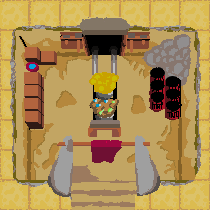
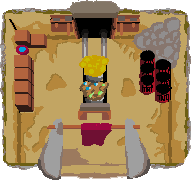
Construccion desde Interfaz

diff --git a/phasertemplate-master/js/interfaz.js b/phasertemplate-master/js/interfaz.js
@@ -10,7 +10,7 @@ export default class Interfaz{
     botonConstruir: 8, flechaAr: 9, aldeanoB: 10, minero: 11, ganadero: 12, cantero:13, explorador: 14, chozaMaestra: 15, mina: 16};
     this.tnames = { oro: 0, comida : 1, materiales: 2, felicidad: 3, proxAtaque: 4, aldeanoBText: 5, mineroText:6, ganaderoText:7,
     canteroText: 8, exploradorText: 9};
-    this.inDesp = 3; this.inIA = 10; this.inAT = 5;
+    this.inDesp = 3; this.inIA = 10; this.inAT = 5; this.inEd = 15;
 
     this.sprites = new Array(config.hudSprites);
     this.edificiosConstruibles = new Array(config.edificiosConstruibles);
@@ -109,13 +109,12 @@ export default class Interfaz{
     this.sp(this.sprites[nE.ganadero], pI.x+xoffSet*i + 115, pI.y-pI.height/2);
     this.sp(this.sprites[nE.cantero], pI.x+xoffSet*i + 185, pI.y-pI.height/2);
     this.sp(this.sprites[nE.explorador], pI.x+xoffSet*i +255, pI.y-pI.height/2);
-    for(let i = this.inIA;i<config.hudSprites;++i) this.sprites[i].setScale(1.3,1.3);
+    for(let i = this.inIA;i<this.inEd;++i) this.sprites[i].setScale(1.3,1.3);
 
     //Edificios construibles
-    /*this.sp(this.sprites[nE.mina], 900,100);
-    this.sprites[nE.mina].setScale(this.sprites[nE.mina].scaleX*config.hudScale ,this.sprites[nE.mina].scaleY*config.hudScale);
-    this.sprites[nE.mina].setVisible(true);*/
-    
+    this.sp(this.sprites[nE.chozaMaestra], pI.x+xoffSet*1.93,480);
+    this.sp(this.sprites[nE.mina], pI.x+xoffSet*1.93, 380);
+    this.sprites[nE.mina].setScale(0.4,0.4);
   }
   sp(sprite,x,y){
     sprite.setPosition(x,y);
@@ -143,11 +142,19 @@ export default class Interfaz{
       }
     })
   }
+  ocultaDesplegable(){
+    for(let a = this.inDesp; a<config.hudSprites; a++){
+      this.sprites[a].setVisible(false);
+      for(let i = this.inAT;i<config.numTexts;++i) this.texts[i].setVisible(false);
+    }
+  }
   clickEnInfo(infoAl){
     infoAl.on('pointerdown', pointer => {
       this.sprites[this.names.infoAldeanos].setVisible(!this.sprites[this.names.infoAldeanos].visible);
-      for(let i = this.inIA;i<config.hudSprites;++i) this.sprites[i].setVisible(!this.sprites[i].visible);
+      for(let i = this.inIA;i<this.inEd;++i) this.sprites[i].setVisible(!this.sprites[i].visible);
       for(let i = this.inAT;i<config.numTexts;++i) this.texts[i].setVisible(!this.texts[i].visible);
+
+      for(let i = this.inEd;i<config.hudSprites;++i) this.sprites[i].setVisible(false);
       this.sprites[this.names.construir].setVisible(false);
       this.sprites[this.names.flechaAb].setVisible(false);
       this.sprites[this.names.flechaAr].setVisible(false);
@@ -155,11 +162,14 @@ export default class Interfaz{
   }
   clickEnConstruccion(construccion){
     construccion.on('pointerdown', pointer =>{
+      this.sprites[this.names.chozaMaestra].setVisible(!this.sprites[this.names.chozaMaestra].visible);
+      this.sprites[this.names.mina].setVisible(!this.sprites[this.names.mina].visible);
+
       this.sprites[this.names.construir].setVisible(!this.sprites[this.names.construir].visible);
       this.sprites[this.names.flechaAb].setVisible(!this.sprites[this.names.flechaAb].visible);
       this.sprites[this.names.flechaAr].setVisible(!this.sprites[this.names.flechaAr].visible);
       this.sprites[this.names.infoAldeanos].setVisible(false);
-      for(let i = this.inIA;i<config.hudSprites;++i) this.sprites[i].setVisible(false);
+      for(let i = this.inIA;i<this.inEd;++i) this.sprites[i].setVisible(false);
       for(let i = this.inAT;i<config.numTexts;++i) this.texts[i].setVisible(false);
     })
   }
@@ -171,6 +181,12 @@ export default class Interfaz{
   clickFlechaAbajo(flechaAb){
     flechaAb.on('pointerdown', pointer =>{
       console.log("ABAJO");
+    })
+  }
+  clickEnChoza(chozaMaestra){
+    chozaMaestra.on('pointerup', pointer=>{
+      this.game.jug.inputConstruir('chozaMaestra');
+      this.ocultaDesplegable();
     })
   }
 
@@ -199,6 +215,7 @@ export default class Interfaz{
     this.clickEnConstruccion(this.sprites[this.names.botonConstruir]);
     this.clickFlechaAbajo(this.sprites[this.names.flechaAb]);
     this.clickFlechaArriba(this.sprites[this.names.flechaAr]);
+    this.clickEnChoza(this.sprites[this.names.chozaMaestra]);
   }
   visibilidad(){
     //Sprites del desplgable comienzan no visibles

diff --git a/phasertemplate-master/js/jugador.js b/phasertemplate-master/js/jugador.js
@@ -45,20 +45,19 @@ export default class Jugador extends Phaser.GameObjects.Sprite {
             this.edificio = null;
         }
 
-        if (Phaser.Input.Keyboard.JustDown(this.build) && !this.isMoving && !this.isBuilding) {
-            this.isBuilding = true;
-            this.edificio = this.construir('recursos', 'oro', this.casillaPuntero, 3, 2);
-            let celdas = this.celdasEdificio(this.edificio);
-            if (this.celdasEdificioOcupadas(celdas))
-                celdas.forEach(elem => elem.sprite.tint = 0xEE4141)
-            else celdas.forEach(elem => elem.sprite.tint = 0x41EE7B);
-        }
-
         if (this.isBuilding) {
             this.posicionaEdificio(this.edificio);
         }
         this.compruebaPosicion();
         super.preUpdate(t, dt);
+    }
+    inputConstruir(spritename){
+        this.isBuilding = true;
+        this.edificio = this.construir(spritename, 'oro', this.casillaPuntero, 3, 2);
+        let celdas = this.celdasEdificio(this.edificio);
+        /*if (this.celdasEdificioOcupadas(celdas))
+            celdas.forEach(elem => elem.sprite.tint = 0xEE4141)
+        else celdas.forEach(elem => elem.sprite.tint = 0x41EE7B);*/
     }
 
     celdasEdificio(edificio) {
@@ -87,8 +86,8 @@ export default class Jugador extends Phaser.GameObjects.Sprite {
 
     posicionaEdificio(edificio) {
         let pos = { x: 0, y: 0 };
-        pos.x = this.casillaPuntero.x + (config.sizeCasilla * edificio.ancho) / 2;
-        pos.y = this.casillaPuntero.y + (config.sizeCasilla * edificio.alto) / 1.25;
+        pos.x = this.casillaPuntero.x;
+        pos.y = this.casillaPuntero.y;
         edificio.setPosition(pos);
     }
 
@@ -132,13 +131,16 @@ export default class Jugador extends Phaser.GameObjects.Sprite {
         if (tipo === 'recursos') {
             //scene,vida,coste,posicion,aldeanosMax,especialidad, key
             edificio = new EdificioRecursos(this.game, 0, 0, pos, ancho, alto, 5, especialidad, 'edificio');
-        } else if (tipo === 'social') {
+        }
+         else if (tipo === 'social') {
             //scene,vida,coste,posicion,felicidad, key
             edificio = new EdificioSocial(this.game, 0, 0, pos, 10, 'edificio');
-        } else if (tipo === 'chozaMaestra') {
+        } 
+        else if (tipo === 'chozaMaestra') {
             //scene,vida,coste,posicion, key
-            edificio = new ChozaMaestra(this.game, 0, 0, pos, 'tipo');
-        } else if (tipo === 'defensivo') {
+            edificio = new ChozaMaestra(this.game, 0, 0, pos,3,3, tipo);
+        } 
+        else if (tipo === 'defensivo') {
             //scene,vida,coste,posicion,aldeanosMax,rango
             edificio = new EdificioDefensivo(this.game, 0, 0, pos, 2, 0);
         }

diff --git a/phasertemplate-master/js/chozaMaestra.js b/phasertemplate-master/js/chozaMaestra.js
@@ -9,7 +9,6 @@ export default class ChozaMaestra extends Edificio{
 
         this.game = scene;
         this.setOrigin(0,0);
-        this.setInteractive();
 
         this.opEnum = { mineros: 0, canteros: 1, ganaderos: 2, exploradores: 3};
         this.names = new Array(2);  this.initNames();
@@ -107,7 +106,7 @@ export default class ChozaMaestra extends Edificio{
     }
     clickEnChoza(chozaSprite){
         chozaSprite.on('pointerup', pointer => {
-            this.muestraOpciones();
+            if(!this.game.jug.isBuilding) this.muestraOpciones();
         })
       }
     clickEnDone(done){

diff --git a/phasertemplate-master/js/mapa.js b/phasertemplate-master/js/mapa.js
@@ -62,6 +62,7 @@ export default class Mapa {
                     }
                 } else if (this.game.jug.isBuilding) {
                     let celdas = this.game.jug.celdasEdificio(this.game.jug.edificio);
+                    this.game.jug.edificio.setInteractive();
                     if (!this.game.jug.celdasEdificioOcupadas(celdas)) {
                         celdas.forEach(elem => { elem.sprite.clearTint(); elem.ocupada = true; });
                         this.game.jug.casillaPuntero.sprite.tint = 0xEE4141;

diff --git a/phasertemplate-master/js/game.js b/phasertemplate-master/js/game.js
@@ -37,7 +37,7 @@ export default class Game extends Phaser.Scene {
 
 
     //this.input.mouse.disableContextMenu();
-    this.chozaMaestra = new ChozaMaestra(this, 0, 0, new Vector2D(700, 300), 0, 0, 'chozaMaestra');
+    //this.chozaMaestra = new ChozaMaestra(this, 0, 0, new Vector2D(700, 300), 0, 0, 'chozaMaestra');
 
     let nextCell;
     do {
